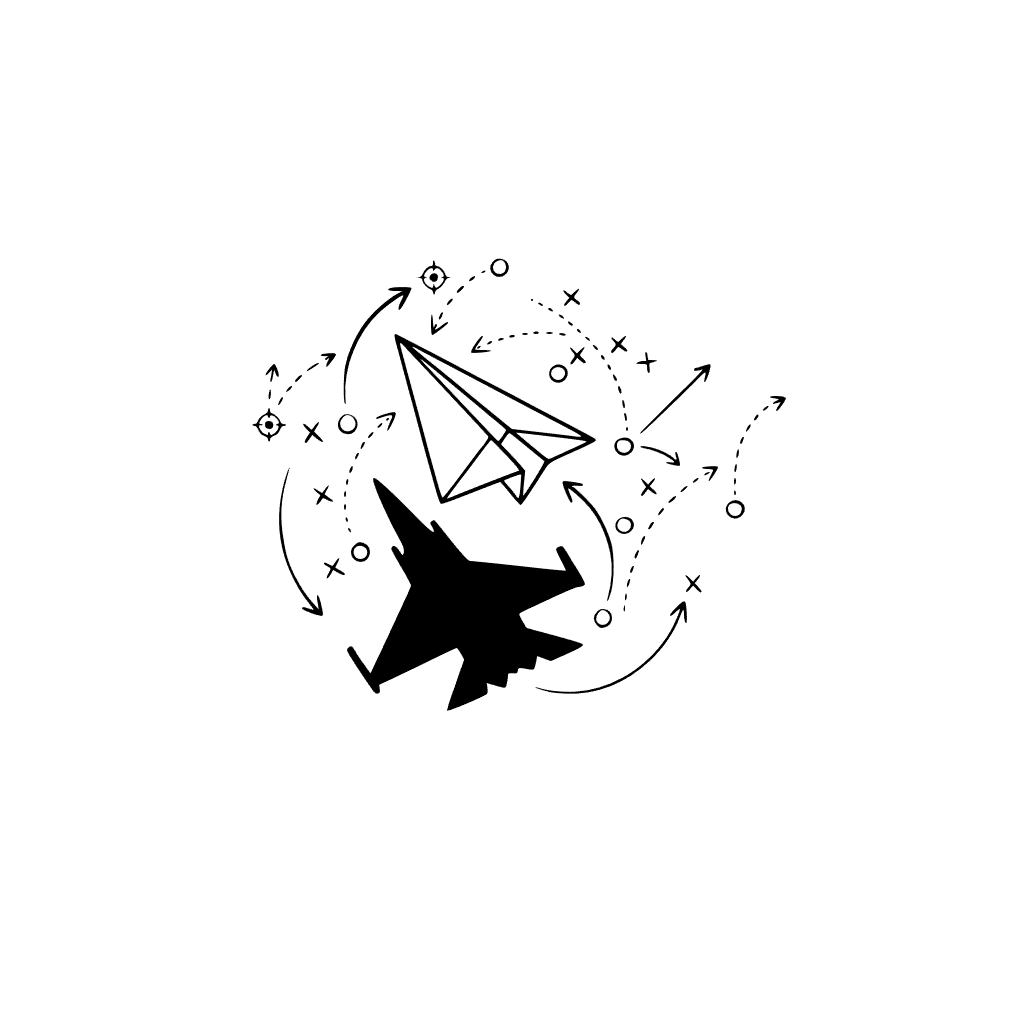
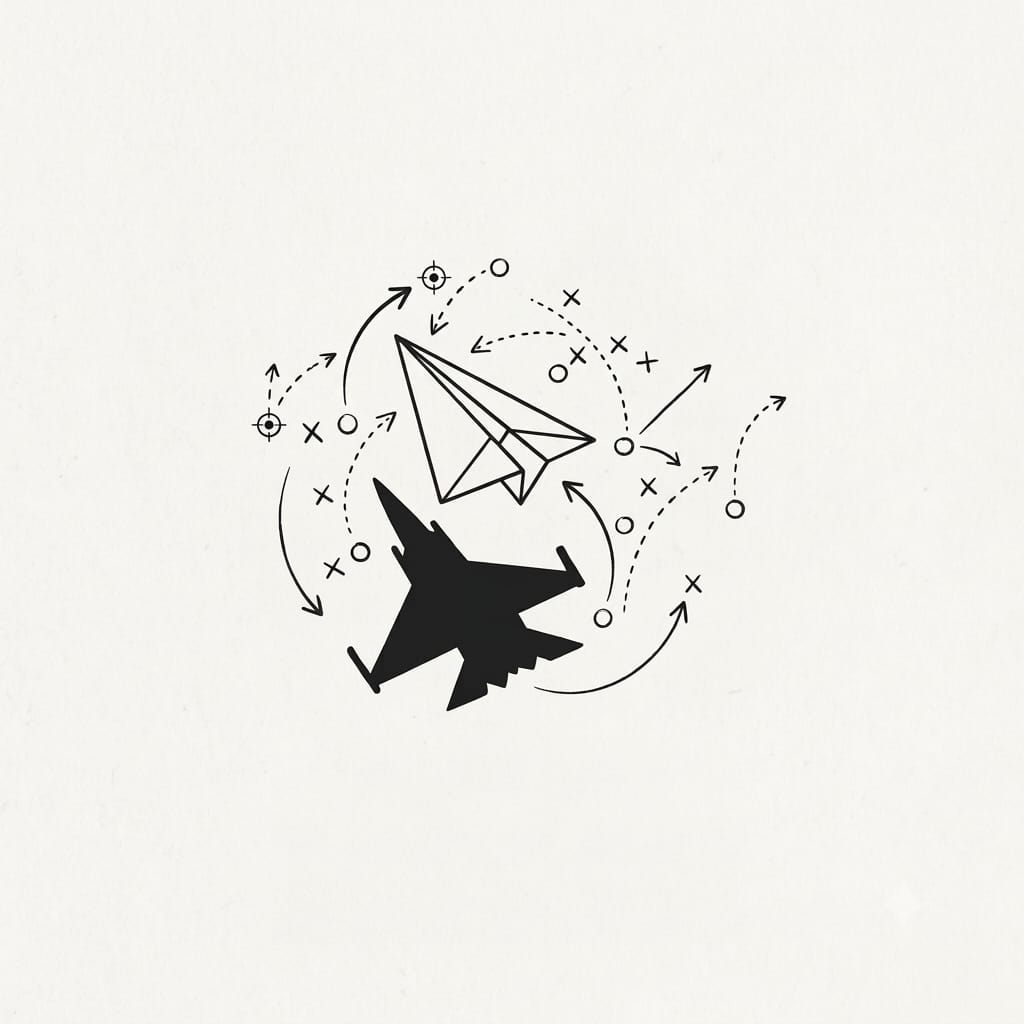
Tighten result format, support, archive, and navigation.
The 5v5 control uses the existing theme with readable labels, support starts collapsed, pending archive cards are denser, and primary navigation is Home, Match Center, Archive, Stadiums, Profile.

diff --git a/src/i18n/translations.ts b/src/i18n/translations.ts
@@ -58,12 +58,15 @@ export const matchUiCopy={
   note:'ملاحظة',cancel:'إلغاء',save:'حفظ',saved:'تم حفظ المباراة محليًا.',required:'أكمل الفريقين والملعب والمدينة والتاريخ والوقت.',
   invalidDate:'التاريخ أو الوقت غير صالح.',deleteConfirm:'حذف هذه المباراة؟',day:'يوم',hours:'ساعة',minutes:'دقيقة',seconds:'ثانية',
   archive:'السجل',archiveDesc:'المباريات المكتملة محفوظة ضمن سجل واحد مشتق من بيانات المباريات المحلية.',
-  pendingSection:'انتهت — النتيجة معلّقة',pendingBody:'انتهت هذه المباريات وتحتاج إلى إدخال النتيجة النهائية.',recordedSection:'انتهت — النتيجة مسجلة',
+  pendingSection:'انتهت — النتيجة معلّقة',pendingBody:'أدخل النتيجة النهائية.',recordedSection:'انتهت — النتيجة مسجلة',
   recordedBody:'تم تسجيل النتائج النهائية لهذه المباريات.',enterResult:'إدخال النتيجة',resultPending:'النتيجة معلّقة',resultRecorded:'النتيجة مسجلة',
   archived:'مؤرشفة',noPending:'لا توجد نتائج معلّقة.',noRecorded:'لا توجد نتائج مسجلة.',addArchived:'إضافة مباراة مؤرشفة',
   resultTitle:'إدخال النتيجة النهائية',team1Score:'نتيجة الفريق الأول',team2Score:'نتيجة الفريق الثاني',invalidScore:'أدخل نتيجة صحيحة من 0 إلى 99.',
   saveResult:'حفظ النتيجة',saving:'جاري الحفظ…',resultSaved:'تم تسجيل النتيجة.',resultFailed:'تعذر حفظ النتيجة.',
-  contributions:'مساهمات اللاعبين',contributionsHelp:'اختياري، حتى 5 لاعبين لكل فريق',player:'اللاعب',goals:'أهداف',assists:'تمريرات حاسمة',
+  contributions:'مساهمات اللاعبين',contributionsHelp:'اختياري. نوع المباراة يحدد عدد اللاعبين.',player:'اللاعب',goals:'أهداف',assists:'تمريرات حاسمة',
+  matchFormat:'نوع المباراة',formatWhy:'لماذا؟',formatWhyTitle:'لماذا يسأل نظام TAAMEN عن نوع اللعبة؟',
+  formatWhyBody:'لأن عدد اللاعبين يختلف حسب نوع المباراة. يساعد هذا الاختيار TAAMEN على معرفة عدد اللاعبين الذين تريد إضافتهم إلى منطقة اللاعبين المساهمين، حتى تكون قائمة المساهمين مناسبة لعدد لاعبي المباراة.',
+  formatOk:'حسنًا',
   searchArchive:'ابحث عن فريق أو ملعب…',allTypes:'كل الأنواع',sourceLocal:'المصدر: مبارياتك المحلية',noResults:'لا توجد نتائج',trySearch:'جرّب بحثًا أو نوعًا آخر.',
   historicalTitle:'مركز المباريات التاريخي',historicalDesc:'سجلات TAAMEN التاريخية المستقلة — للعرض والبحث فقط.',returnGeneral:'العودة للمستخدم العام',
   historicalSource:'المصدر: سجلات TAAMEN التاريخية',readOnly:'للقراءة فقط',records:'سجل',searchHistorical:'ابحث عن فريق أو معرف المباراة…',
@@ -80,12 +83,15 @@ export const matchUiCopy={
   note:'Note',cancel:'Cancel',save:'Save',saved:'Match saved locally.',required:'Complete teams, stadium, city, date and time.',
   invalidDate:'Invalid date or time.',deleteConfirm:'Delete this match?',day:'days',hours:'hrs',minutes:'min',seconds:'sec',
   archive:'Archive',archiveDesc:'Completed matches live in one Archive projected from your canonical local matches.',
-  pendingSection:'Finished — result pending',pendingBody:'These matches have ended and need a final result.',recordedSection:'Finished — result recorded',
+  pendingSection:'Finished — result pending',pendingBody:'Enter the final score.',recordedSection:'Finished — result recorded',
   recordedBody:'Final results have been recorded for these matches.',enterResult:'Enter result',resultPending:'Result pending',resultRecorded:'Result recorded',
   archived:'Archived',noPending:'No results are pending.',noRecorded:'No recorded results yet.',addArchived:'Add archived match',
   resultTitle:'Enter final result',team1Score:'Team 1 score',team2Score:'Team 2 score',invalidScore:'Enter a whole-number score from 0 to 99.',
   saveResult:'Save result',saving:'Saving…',resultSaved:'Result recorded.',resultFailed:'The result could not be saved.',
-  contributions:'Player contributions',contributionsHelp:'Optional, up to 5 players per team',player:'Player',goals:'Goals',assists:'Assists',
+  contributions:'Player contributions',contributionsHelp:'Optional. The match format sets how many players you can add.',player:'Player',goals:'Goals',assists:'Assists',
+  matchFormat:'Match format',formatWhy:'Why?',formatWhyTitle:'Why does TAAMEN ask for the match format?',
+  formatWhyBody:'Because the number of players differs by match format. This helps TAAMEN know how many player-contribution slots to provide, so the contribution list matches the number of players in the game.',
+  formatOk:'OK',
   searchArchive:'Search team or stadium…',allTypes:'All types',sourceLocal:'Source: your local matches',noResults:'No matches found',trySearch:'Try another search or match type.',
   historicalTitle:'Historical Match Center',historicalDesc:'Independent historical TAAMEN records — browse and inspect only.',returnGeneral:'Return to General User',
   historicalSource:'Source: historical TAAMEN records',readOnly:'Read-only',records:'records',searchHistorical:'Search team or match ID…',
@@ -340,7 +346,18 @@ export const uiCopy = {
   contactMessagePlaceholder:'اكتب رسالتك…',
   contactUsingProfileEmail:'سيتم الإرسال من بريد الملف:',
   contactSend:'إرسال الرسالة',
-  contactSending:'إرسال…',
+  contactSending:'جارٍ الإرسال…',
+  supportAsk:'كيف أرسل رسالة للدعم؟',
+  supportGuideLead:'صف المشكلة، الصفحة التي حدثت فيها، وما الذي كنت تحاول القيام به.',
+  supportStepPage:'صف صفحة TAAMEN المعنية.',
+  supportStepTrying:'صف ما كنت تحاول القيام به.',
+  supportStepHappened:'صف ما حدث فعلًا.',
+  supportStepSend:'أرسل الرسالة وراقب حالة التسليم.',
+  supportExampleTitle:'مثال لتقرير مفيد',
+  supportExampleBody:'بعد أن أدخلت نتيجة مباراة الجمعة في السجل، لم تظهر المباراة ضمن النتائج المسجّلة.',
+  officialInstagramAction:'إنستغرام TAAMEN الرسمي',
+  officialWhatsAppAction:'واتساب TAAMEN الرسمي',
+  officialChannelAction:'قناة واتساب TAAMEN الرسمية',
   contactSentAction:'أُرسلت',
   officialInstagramTitle:'TAAMEN Official',
   officialInstagramBody:'الحساب الرسمي على إنستغرام.',
@@ -485,6 +502,17 @@ export const uiCopy = {
   contactUsingProfileEmail:'Sending from your profile email:',
   contactSend:'Send message',
   contactSending:'Sending…',
+  supportAsk:'How do I send a support message?',
+  supportGuideLead:'Describe the problem, the page where it happened, and what you were trying to do.',
+  supportStepPage:'Describe the relevant TAAMEN page.',
+  supportStepTrying:'Describe what you were trying to do.',
+  supportStepHappened:'Describe what actually happened.',
+  supportStepSend:'Send the message and watch the delivery state.',
+  supportExampleTitle:'Example of a useful report',
+  supportExampleBody:'After I entered Friday’s match result in Archive, the match did not appear under recorded results.',
+  officialInstagramAction:'Official TAAMEN Instagram',
+  officialWhatsAppAction:'Official TAAMEN WhatsApp',
+  officialChannelAction:'Official TAAMEN WhatsApp Channel',
   contactSentAction:'Sent',
   officialInstagramTitle:'TAAMEN Official',
   officialInstagramBody:'The official Instagram account.',

diff --git a/src/pages/Support.tsx b/src/pages/Support.tsx
@@ -1,5 +1,5 @@
 import { useMemo, useRef, useState } from 'react';
-import { AtSign, Check, Mail, MessageCircle, Radio, Send, X } from 'lucide-react';
+import { AtSign, Check, ChevronDown, Mail, MessageCircle, Radio, Send, X } from 'lucide-react';
 import { INSTAGRAM_URL, WHATSAPP_CHANNEL_URL, WHATSAPP_URL } from '../config/support';
 import { api, ApiError, type ContactResult } from '../services/apiClient';
 import { uiCopy } from '../i18n/translations';
@@ -29,6 +29,7 @@ export default function Support({language,profile,onBack}:{language:'ar'|'en';pr
   const [status,setStatus]=useState('');
   const [failed,setFailed]=useState(false);
   const [sent,setSent]=useState(false);
+  const [formOpen,setFormOpen]=useState(false);
 
   const replyEmail=useMemo(()=>hasProfileEmail?profileEmail:email.trim(),[hasProfileEmail,profileEmail,email]);
 
@@ -92,29 +93,34 @@ export default function Support({language,profile,onBack}:{language:'ar'|'en';pr
     <div className="contact-actions" role="group" aria-label={ar ? 'طرق التواصل' : 'Contact actions'}>
       <a className="contact-action" href={INSTAGRAM_URL} target="_blank" rel="noreferrer noopener">
         <span className="contact-action-icon" aria-hidden="true"><AtSign size={18} /></span>
-        <span className="contact-action-copy"><strong>{ar ? 'إنستغرام TAAMEN الرسمي' : 'Official TAAMEN Instagram'}</strong><small>{copy.officialHandle}</small></span>
+        <span className="contact-action-copy"><strong>{copy.officialInstagramAction}</strong><small>{copy.officialHandle}</small></span>
       </a>
       {WHATSAPP_URL && <a className="contact-action" href={WHATSAPP_URL} target="_blank" rel="noreferrer noopener">
         <span className="contact-action-icon" aria-hidden="true"><MessageCircle size={18} /></span>
-        <span className="contact-action-copy"><strong>{ar ? 'واتساب TAAMEN الرسمي' : 'Official TAAMEN WhatsApp'}</strong><small>{copy.openWhatsApp}</small></span>
+        <span className="contact-action-copy"><strong>{copy.officialWhatsAppAction}</strong><small>{copy.openWhatsApp}</small></span>
       </a>}
       <a className="contact-action" href={WHATSAPP_CHANNEL_URL} target="_blank" rel="noreferrer noopener">
         <span className="contact-action-icon" aria-hidden="true"><Radio size={18} /></span>
-        <span className="contact-action-copy"><strong>{ar ? 'قناة واتساب TAAMEN الرسمية' : 'Official TAAMEN WhatsApp Channel'}</strong><small>{copy.openWhatsAppChannel}</small></span>
+        <span className="contact-action-copy"><strong>{copy.officialChannelAction}</strong><small>{copy.openWhatsAppChannel}</small></span>
       </a>
     </div>
     <div className="content-grid support-grid official-contact-grid">
       <section className="panel support-card support-contact">
-        <div className="panel-heading"><div><p className="eyebrow">CONTACT TAAMEN</p><h2>{ar ? 'كيف تستخدم الدعم' : 'How to use Support'}</h2></div><Mail size={18}/></div>
+        <button type="button" className="support-disclosure" aria-expanded={formOpen} aria-controls="support-message-panel" onClick={()=>setFormOpen(open=>!open)}>
+          <Mail size={18} aria-hidden="true"/>
+          <span>{copy.supportAsk}</span>
+          <ChevronDown size={16} aria-hidden="true" className={formOpen?'is-open':''}/>
+        </button>
+        {formOpen&&<div id="support-message-panel" className="support-message-panel">
         <div className="support-guide">
-          <p>{ar ? 'أرسل لفريق TAAMEN المشكلة، وأين حدثت، وماذا كنت تفعل حينها. كلما كان السياق أوضح كان التحقق أسهل.' : 'Send the TAAMEN team the problem, where it happened, and what you were doing when it happened. The more useful the context, the easier it is to investigate.'}</p>
+          <p>{copy.supportGuideLead}</p>
           <ol>
-            <li>{ar ? 'صف صفحة TAAMEN المعنية.' : 'Describe the relevant TAAMEN page.'}</li>
-            <li>{ar ? 'صف ما كنت تحاول فعله.' : 'Describe what you were trying to do.'}</li>
-            <li>{ar ? 'صف ما حدث فعلًا.' : 'Describe what actually happened.'}</li>
-            <li>{ar ? 'أرسل الرسالة وراقب حالة التسليم.' : 'Send the message and watch the delivery state.'}</li>
+            <li>{copy.supportStepPage}</li>
+            <li>{copy.supportStepTrying}</li>
+            <li>{copy.supportStepHappened}</li>
+            <li>{copy.supportStepSend}</li>
           </ol>
-          <div className="support-example"><strong>{ar ? 'مثال لتقرير مفيد' : 'Example of a useful report'}</strong><p>{ar ? 'بعد أن أدخلت نتيجة مباراة الجمعة في السجل، لم تظهر المباراة ضمن النتائج المسجّلة.' : 'After I entered Friday’s match result in Archive, the match did not appear under recorded results.'}</p></div>
+          <div className="support-example"><strong>{copy.supportExampleTitle}</strong><p>{copy.supportExampleBody}</p></div>
         </div>
         <form className="support-contact-form" onSubmit={submit} noValidate>
           {hasProfileEmail
@@ -126,6 +132,7 @@ export default function Support({language,profile,onBack}:{language:'ar'|'en';pr
             {busy?copy.contactSending:sent&&!failed?copy.contactSentAction:failed?copy.contactRetry:copy.contactSend}
           </button>
         </form>
+        </div>}
       </section>
     </div>
   </section>;

diff --git a/src/components/ResultEntryModal.tsx b/src/components/ResultEntryModal.tsx
@@ -10,7 +10,6 @@ function emptyContribution(): PlayerContribution { return { playerName: '', goal
 
 export default function ResultEntryModal({ match, language, onClose, onSaved }: { match: Match; language: Language; onClose: () => void; onSaved: () => void }) {
   const copy = matchUiCopy[language];
-  const ar = language === 'ar';
   const [score1, setScore1] = useState('');
   const [score2, setScore2] = useState('');
   const [story, setStory] = useState(match.story || '');
@@ -67,14 +66,14 @@ export default function ResultEntryModal({ match, language, onClose, onSaved }: 
         <label>{copy.team2Score}<input type="number" inputMode="numeric" min="0" max="99" value={score2} onChange={event => setScore2(event.target.value)} /></label>
       </div>
       <fieldset className="match-format-field">
-        <legend>{ar ? 'نوع المباراة' : 'Match format'}</legend>
+        <legend>{copy.matchFormat}</legend>
         <div className="match-format-row">
-          <div className="match-format-choice" role="radiogroup" aria-label={ar ? 'نوع المباراة' : 'Match format'}>
+          <div className="match-format-choice" role="radiogroup" aria-label={copy.matchFormat}>
             {(['5v5', '7v7'] as MatchFormat[]).map(option => (
               <button key={option} type="button" role="radio" aria-checked={format === option} className={format === option ? 'is-selected' : ''} onClick={() => setFormat(option)}>{option}</button>
             ))}
           </div>
-          <button type="button" className="text-button" onClick={() => setWhyOpen(true)}>{ar ? 'لماذا؟' : 'Why?'}</button>
+          <button type="button" className="text-button" onClick={() => setWhyOpen(true)}>{copy.formatWhy}</button>
         </div>
       </fieldset>
       <label>{copy.note}<textarea rows={3} value={story} onChange={event => setStory(event.target.value)} /></label>
@@ -85,11 +84,9 @@ export default function ResultEntryModal({ match, language, onClose, onSaved }: 
     {whyOpen && <div className="overlay format-why-overlay" role="dialog" aria-modal="true" aria-labelledby="format-why-title">
       <button ref={why.backdropRef} className="overlay-backdrop" aria-label={copy.cancel} onClick={why.requestClose} />
       <aside ref={why.panelRef} className="modal-card format-why-modal">
-        <header className="panel-heading"><h2 id="format-why-title">{ar ? 'لماذا يسأل نظام TAAMEN عن نوع اللعبة؟' : 'Why does TAAMEN ask for the match format?'}</h2><button className="icon-button" onClick={why.requestClose} aria-label={copy.cancel}><X /></button></header>
-        <p>{ar
-          ? 'لأن عدد اللاعبين يختلف حسب نوع المباراة. يساعد هذا الاختيار TAAMEN على معرفة عدد اللاعبين الذين تريد إضافتهم إلى منطقة اللاعبين المساهمين، حتى تكون قائمة المساهمين مناسبة لعدد لاعبي المباراة.'
-          : 'Because the number of players differs by match format. This helps TAAMEN know how many player-contribution slots to provide, so the contribution list matches the number of players in the game.'}</p>
-        <button type="button" className="primary-action" onClick={why.requestClose}>{ar ? 'حسنًا' : 'OK'}</button>
+        <header className="panel-heading"><h2 id="format-why-title">{copy.formatWhyTitle}</h2><button className="icon-button" onClick={why.requestClose} aria-label={copy.cancel}><X /></button></header>
+        <p>{copy.formatWhyBody}</p>
+        <button type="button" className="primary-action" onClick={why.requestClose}>{copy.formatOk}</button>
       </aside>
     </div>}
   </div>;

diff --git a/src/styles/product-refinement.css b/src/styles/product-refinement.css
@@ -383,12 +383,71 @@ html[data-theme="light"] .contact-action-icon {
   }
 }
 
-.brand-image,
-.boot-screen img,
-.install-banner-mark,
-.acquisition-brand img {
-  background: #f4f7f2;
-  border-radius: 8px;
+.support-disclosure {
+  display: flex;
+  align-items: center;
+  gap: 10px;
+  width: 100%;
+  min-height: 48px;
+  padding: 0;
+  border: 0;
+  background: transparent;
+  color: inherit;
+  text-align: start;
+  font-weight: 700;
+  cursor: pointer;
+}
+
+.support-disclosure span {
+  flex: 1;
+}
+
+.support-disclosure svg:last-child {
+  transition: transform 160ms ease;
+}
+
+.support-disclosure svg.is-open {
+  transform: rotate(180deg);
+}
+
+.support-message-panel {
+  display: grid;
+  gap: 12px;
+}
+
+.archive-lifecycle-section.is-pending {
+  margin: 12px 0;
+}
+
+.archive-lifecycle-section.is-pending > header {
+  margin-bottom: 8px;
+  padding-bottom: 6px;
+}
+
+.archive-lifecycle-section.is-pending h2 {
+  font-size: 16px;
+}
+
+.archive-lifecycle-section.is-pending p {
+  font-size: 12px;
+  line-height: 1.4;
+}
+
+.archive-page .is-pending .match-card {
+  padding: 10px 12px;
+}
+
+.archive-page .is-pending .match-card .match-story {
+  -webkit-line-clamp: 1;
+}
+
+.archive-page .is-pending .match-card-actions {
+  margin-top: 8px;
+  padding-top: 8px;
+}
+
+.archive-page .is-pending .match-card-top {
+  margin-bottom: 8px;
 }
 
 .match-card {
@@ -475,7 +534,6 @@ html[data-theme="light"] .contact-action-icon {
 }
 
 .match-format-row,
-.match-format-choice,
 .stadium-actions {
   display: flex;
   flex-wrap: wrap;
@@ -483,9 +541,58 @@ html[data-theme="light"] .contact-action-icon {
   align-items: center;
 }
 
-.match-format-choice button,
-.timing-presets button {
-  min-height: 40px;
+.match-format-choice {
+  display: inline-flex;
+  min-width: 0;
+  border: 1px solid rgba(186, 200, 217, .28);
+  border-radius: 10px;
+  overflow: hidden;
+  background: rgba(7, 19, 22, .55);
+}
+
+.match-format-choice button {
+  min-height: 42px;
+  min-width: 76px;
+  padding: 0 16px;
+  border: 0;
+  border-radius: 0;
+  background: transparent;
+  color: #f4f7f2;
+  font-weight: 700;
+  letter-spacing: 0.02em;
+  cursor: pointer;
+}
+
+.match-format-choice button + button {
+  border-inline-start: 1px solid rgba(186, 200, 217, .28);
+}
+
+.match-format-choice button.is-selected {
+  background: var(--ta-lime, #9bf272);
+  color: #12251b;
+}
+
+.match-format-choice button:focus-visible {
+  outline: 2px solid var(--ta-lime, #9bf272);
+  outline-offset: -3px;
+}
+
+html[data-theme="light"] .match-format-choice {
+  background: #fff;
+  border-color: #1a2c30;
+}
+
+html[data-theme="light"] .match-format-choice button {
+  color: #102228;
+}
+
+html[data-theme="light"] .match-format-choice button + button {
+  border-inline-start-color: #1a2c30;
+}
+
+html[data-theme="light"] .match-format-choice button.is-selected {
+  background: #1a2c30;
+  color: #f7faf8;
 }
 
 .match-format-chip {

diff --git a/src/config/routes.ts b/src/config/routes.ts
@@ -7,12 +7,12 @@ export type RouteSection = 'core'|'football'|'personal'|'system';
 export type RouteMeta={id:RouteId;icon:LucideIcon;label:{ar:string;en:string};scopes:Scope[];showInMobileNav:boolean;showInDesktopNav:boolean;section:RouteSection};
 export const routeRegistry:RouteMeta[]=[
  {id:'home',icon:HomeIcon,label:{ar:'الرئيسية',en:'Home'},scopes:['normal','featured'],showInMobileNav:true,showInDesktopNav:true,section:'core'},
- {id:'archive',icon:Archive,label:{ar:'السجل',en:'Archive'},scopes:['normal'],showInMobileNav:true,showInDesktopNav:true,section:'football'},
  {id:'match-center',icon:ClipboardList,label:{ar:'مركز المباريات',en:'Match Center'},scopes:['normal'],showInMobileNav:true,showInDesktopNav:true,section:'football'},
  {id:'historical-match-center',icon:ClipboardList,label:{ar:'المباريات التاريخية',en:'Historical Matches'},scopes:['featured'],showInMobileNav:true,showInDesktopNav:true,section:'football'},
- {id:'tactical',icon:Swords,label:{ar:'الملعب التكتيكي',en:'Tactical Playground'},scopes:['normal'],showInMobileNav:false,showInDesktopNav:false,section:'football'},
+ {id:'archive',icon:Archive,label:{ar:'السجل',en:'Archive'},scopes:['normal'],showInMobileNav:true,showInDesktopNav:true,section:'football'},
  {id:'stadiums',icon:Goal,label:{ar:'الملاعب',en:'Stadiums'},scopes:['normal','featured'],showInMobileNav:true,showInDesktopNav:true,section:'football'},
  {id:'profile',icon:UserRound,label:{ar:'الملف الشخصي',en:'Profile'},scopes:['normal'],showInMobileNav:true,showInDesktopNav:true,section:'personal'},
+ {id:'tactical',icon:Swords,label:{ar:'الملعب التكتيكي',en:'Tactical Playground'},scopes:['normal'],showInMobileNav:false,showInDesktopNav:false,section:'football'},
  {id:'support',icon:LifeBuoy,label:{ar:'الدعم',en:'Support'},scopes:['normal','featured'],showInMobileNav:false,showInDesktopNav:true,section:'system'},
  {id:'settings',icon:Settings,label:{ar:'الإعدادات',en:'Settings'},scopes:['normal','featured'],showInMobileNav:true,showInDesktopNav:true,section:'system'},
 ];

diff --git a/src/config/routes.test.ts b/src/config/routes.test.ts
@@ -11,6 +11,13 @@ test('tactical stays in the registry but leaves normal navigation', () => {
   assert.equal(routesForDesktopNav('normal').some((route) => route.id === 'tactical'), false);
 });
 
+test('primary navigation is Home, Match Center, Archive, Stadiums, Profile', () => {
+  const primary = routesForMobileNav('normal').map((route) => route.id).filter((id) => id !== 'settings');
+  assert.deepEqual(primary, ['home', 'match-center', 'archive', 'stadiums', 'profile']);
+  const desktop = routesForDesktopNav('normal').map((route) => route.id).filter((id) => id !== 'support' && id !== 'settings');
+  assert.deepEqual(desktop, ['home', 'match-center', 'archive', 'stadiums', 'profile']);
+});
+
 test('stadiums is a mobile and desktop destination', () => {
   const stadiums = routeRegistry.find((route) => route.id === 'stadiums');
   assert.equal(stadiums?.showInMobileNav, true);

diff --git a/tests/taamen-production.spec.ts b/tests/taamen-production.spec.ts
@@ -81,6 +81,7 @@ test.describe('TAAMEN production path', () => {
     await useEnglish(page);
     await page.goto('/#support');
     await expect(page.getByRole('heading', { name: 'Support', exact: true })).toBeVisible();
+    await page.getByRole('button', { name: 'How do I send a support message?' }).click();
     await page.getByRole('button', { name: 'Send message' }).click();
     await expect(page.getByRole('alert')).toContainText(/check the entered information/i);
     await page.getByPlaceholder('name@example.com').fill('person@example.com');

diff --git a/src/services/serviceWorkerPush.test.ts b/src/services/serviceWorkerPush.test.ts
@@ -5,7 +5,7 @@ import { fileURLToPath } from 'node:url';
 
 test('the service worker keeps caching and adds push delivery', () => {
   const sw = fs.readFileSync(fileURLToPath(new URL('../../public/sw.js', import.meta.url)), 'utf8');
-  assert.match(sw, /VERSION='v10'/);
+  assert.match(sw, /VERSION='v11'/);
   assert.match(sw, /url\.pathname\.startsWith\('\/api\/'\)/);
   assert.match(sw, /url\.pathname\.startsWith\('\/share\/'\)/);
   assert.match(sw, /ads\.txt/);

diff --git a/src/config/branding.ts b/src/config/branding.ts
@@ -1,3 +1,3 @@
-/** Central TAAMEN branding configuration. The supplied product mark is the source of truth. */
+/** Central TAAMEN branding. The committed PNG is the supplied official mark. */
 export const TAAMEN_LOGO_SRC = '/assets/taamen-brand-mark.png';
 export const TAAMEN_LOGO_ALT = 'TAAMEN';

diff --git a/public/sw.js b/public/sw.js
@@ -1,4 +1,4 @@
-const VERSION='v10';
+const VERSION='v11';
 const SHELL=`taamen-shell-${VERSION}`;
 const RUNTIME=`taamen-runtime-${VERSION}`;
 const CORE=['/','/manifest.webmanifest','/assets/taamen-brand-mark.png'];
